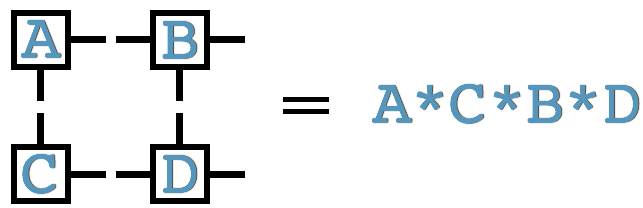
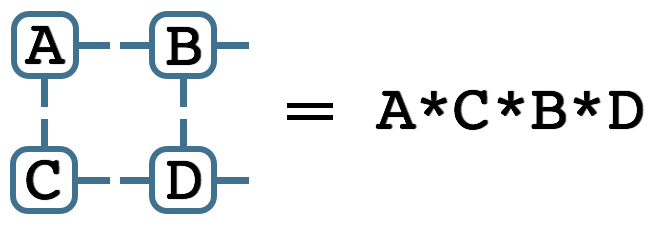
Updated diagram and main page text. Added a news page.

diff --git a/index.html b/index.html
@@ -23,6 +23,7 @@
 <div id="navbar" class="rounded">
     <ul>
     <li><a class="thispage" href="index.html">Home</a> </li>
+    <li><a href="news.html">News</a> </li>
     <li><a href="learn.php">Learn</a> </li>
     <li><a href="contribute.html">Contribute</a></li>
     </ul>
@@ -43,7 +44,7 @@
         <li><a href="https://github.com/ITensor/library/tarball/master">tar.gz</a></br>
         <li><a href="https://github.com/ITensor/library/zipball/master">zip</a></br>
         </ul>
-        Or track via <a target="new" href="https://github.com/ITensor/library">github</a>
+        Or track development via <a target="new" href="https://github.com/ITensor/library">github</a>
     </div>
 
     <p>
@@ -54,7 +55,7 @@
     and contract, making it simple to convert tensor network diagrams into correct, efficient code.
     </p>
     <p>
-    For example, the diagram on the left becomes the code on the right
+    For example, the diagram below can be converted to code as
     </p>
     <img id="diagram" src="Diagram.png"/></br>
 </div>
@@ -81,6 +82,8 @@
     <li>Z &lt;&lt; 1, 0, 0, -1;
     <li>X &lt;&lt; 0, 1, 1, 0;
     <li>ITensor R = Z * X; </li>
+    <li>assert(R(a(1),c(2)) == &nbsp;1);</li>
+    <li>assert(R(a(2),c(1)) == -1);</li>
     </ul>
 </div>
 

diff --git a/news.html b/news.html
@@ -24,9 +24,9 @@
 <div id="navbar" class="rounded">
     <ul>
     <li><a href="index.html">Home</a> </li>
-    <li><a href="news.html">News</a> </li>
+    <li><a class="thispage" href="news.html">News</a> </li>
     <li><a href="learn.php">Learn</a> </li>
-    <li><a class="thispage" href="contribute.html">Contribute</a></li>
+    <li><a href="contribute.html">Contribute</a></li>
     </ul>
 </div>
 
@@ -35,7 +35,7 @@
 <img src="ITensor.png" /></br>
 </div>
 
-<div class="full section rounded"> <h2>Become a Contributor</h2> </div>
+<div class="full section rounded"> <h2>Latest News</h2> </div>
 
 <div class="full">
 <p>

diff --git a/style.css b/style.css
@@ -40,11 +40,12 @@ font-size: 140%;
 #navbar ul { display: table; }
 #navbar ul li { display: table; }
 
-#banner { width:200px; float:left; margin:0px; margin-left: 20px; padding-top:20px; }
+#banner { width:200px; float:left; margin:0px; margin-left: 20px; padding-top:30px; }
 #banner img { width:460px; }
 
 #download 
 { 
+    width: 190px;
     float:right;
     font-size: 120%; 
     font-family: sans-serif; 
@@ -73,7 +74,7 @@ font-size: 140%;
 #diagram 
 { 
     width: 450px; 
-    margin-left: 50px;
+    margin-left: 100px;
     margin-right: auto;
     margin-bottom: 10px;
     display: block;

diff --git a/learn.php b/learn.php
@@ -27,6 +27,7 @@
 <div id="navbar" class="rounded">
     <ul>
     <li><a href="index.html">Home</a> </li>
+    <li><a href="news.html">News</a> </li>
     <li><a class="thispage" href="learn.php">Learn</a> </li>
     <li><a href="contribute.html">Contribute</a></li>
     </ul>
